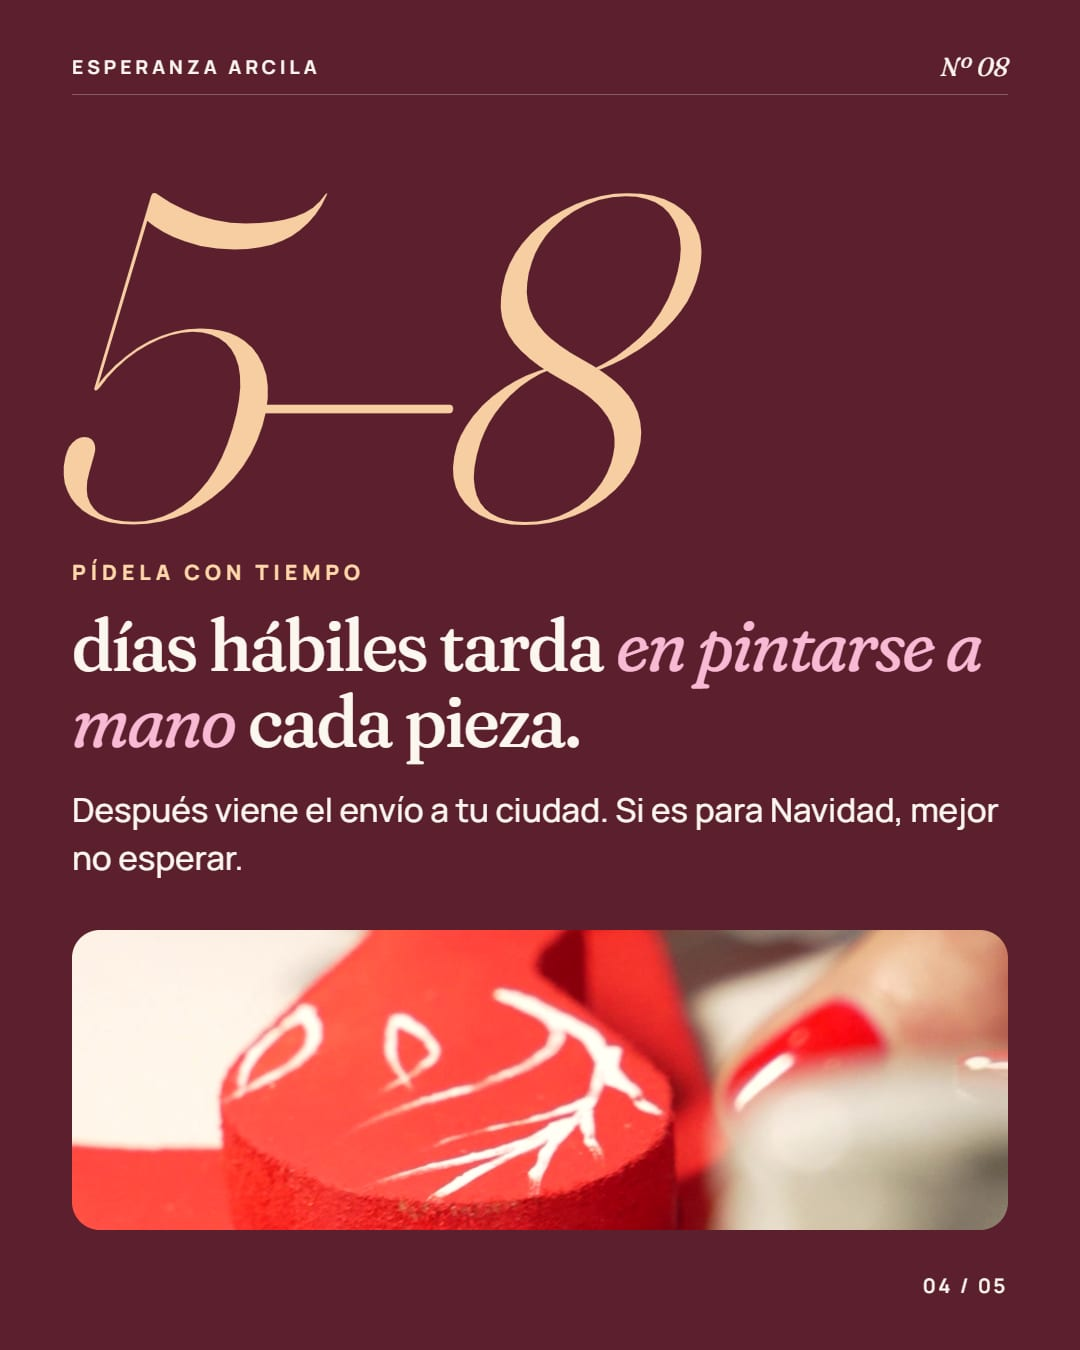
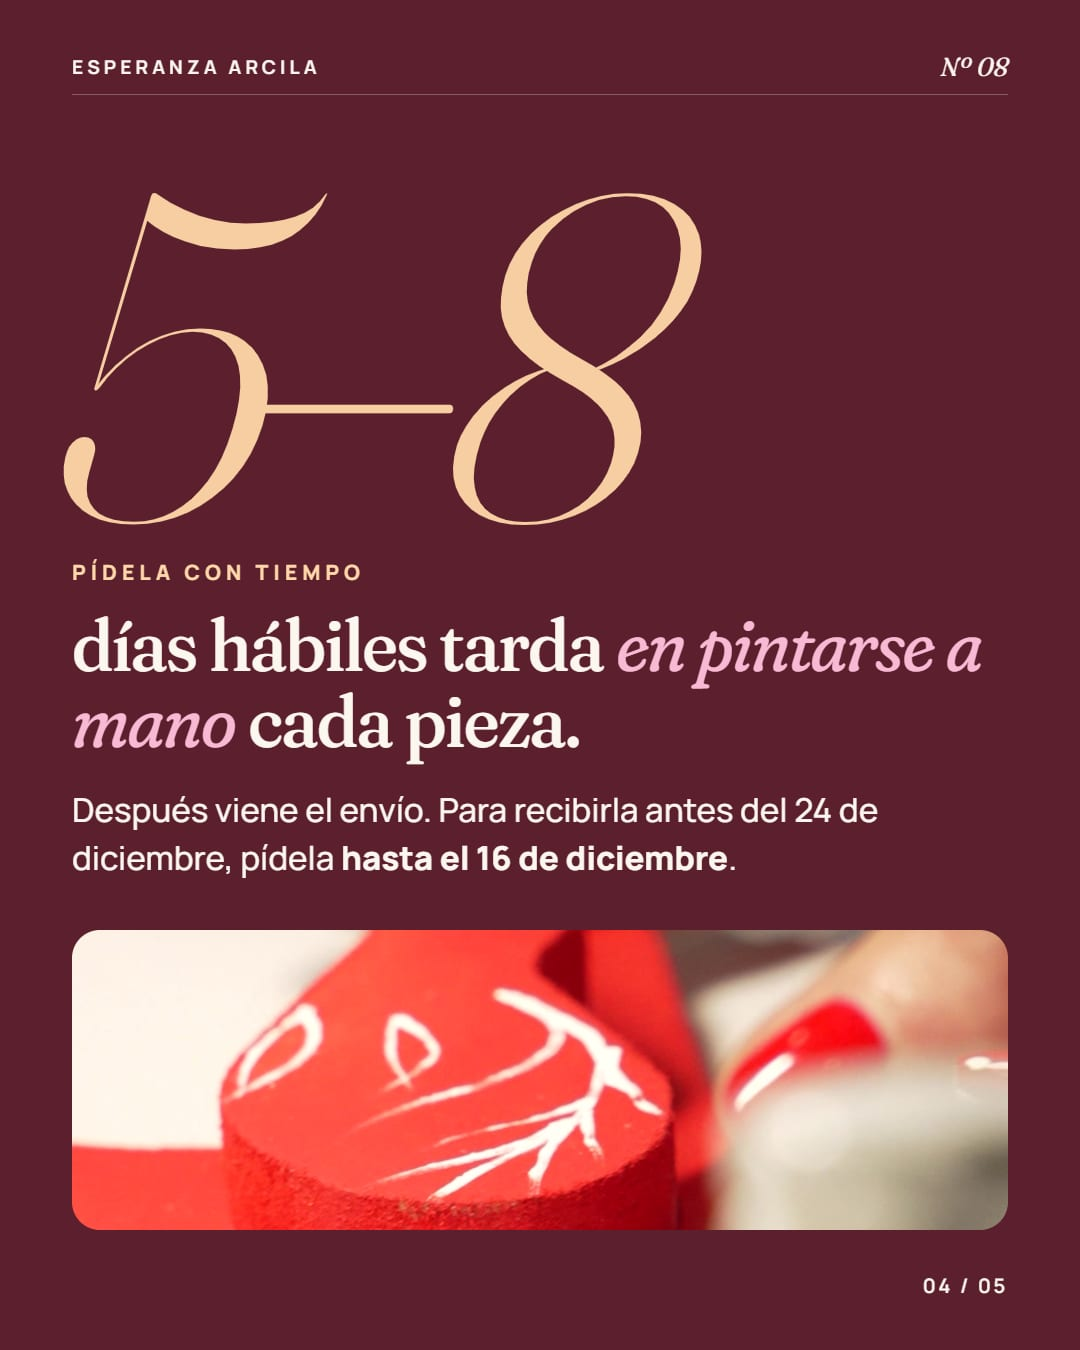
Parrilla: fecha límite 16 dic y personalización +$5.000

Changed region(s): [[0.0611, 0.5911, 0.9167, 0.6533]]

diff --git a/parrilla/index.html b/parrilla/index.html
@@ -146,7 +146,7 @@ Colección Reino de la Imaginación en esperanzaarcila.com
 
 De esos recuerdos nació su colección de Navidad: Santa Claus, árbol, media luna y renos, pintados a mano.
 
-Pide la tuya con tiempo: cada pieza tarda de 5 a 8 días hábiles en elaborarse, más el envío.
+Pide la tuya con tiempo: cada pieza tarda de 5 a 8 días hábiles en elaborarse, más el envío. Pedidos para Navidad: hasta el 16 de diciembre.
 esperanzaarcila.com
 
 #EsperanzaArcila #NavidadHechaAMano #DecoraciónNavideña #RegalosDeNavidad #HechoEnColombia #Cajicá</pre><button data-copy="07">Copiar texto</button></details>
@@ -164,12 +164,12 @@ Santa Claus · $150.000
 Media Luna · $127.500
 Renos rojo, verde y blanco · $150.000 c/u
 
-Cada pieza se pinta a mano en 5 a 8 días hábiles, más el envío. Si es para Navidad, mejor no esperar.
+Cada pieza se pinta a mano en 5 a 8 días hábiles, más el envío. Para recibirla antes del 24 de diciembre, pídela hasta el 16 de diciembre.
 
 Pídela en esperanzaarcila.com o por WhatsApp 315 152 6729.
 
 #EsperanzaArcila #NavidadHechaAMano #DecoraciónNavideña #RegalosDeNavidad #HechoEnColombia #Cajicá</pre><button data-copy="08">Copiar texto</button></details>
-  <p class="nota">Para revisar: Validar con Esperanza la fecha límite de pedidos para entregar antes del 24 de diciembre y agregarla al caption.</p>
+  
 </article>
 <article class="pz" id="n09">
   <header><span class="num">Nº 09</span><div><b>Carrusel · martes, 1 de diciembre</b><small>Capítulo III · Navidad en el alma · 19:00</small></div></header>
@@ -181,13 +181,13 @@ Pídela en esperanzaarcila.com o por WhatsApp 315 152 6729.
 · 80 hojas, 19 × 14 cm, portada plastificada.
 · Rayadas por ambas caras: $55.000.
 · Rayadas por un lado y blancas por el otro: $45.000.
-· Personalízala con un nombre, una dedicatoria o tu propia frase (hasta 25 caracteres).
+· Personalízala con un nombre, una dedicatoria o tu propia frase (hasta 25 caracteres), por $5.000 adicionales.
 
 Un regalo para quien escribe, dibuja o sueña.
 esperanzaarcila.com
 
 #EsperanzaArcila #NavidadHechaAMano #DecoraciónNavideña #RegalosDeNavidad #HechoEnColombia #Cajicá</pre><button data-copy="09">Copiar texto</button></details>
-  <p class="nota">Para revisar: Si la personalización tiene costo adicional, agregarlo cuando Esperanza lo confirme.</p>
+  
 </article>
 <article class="pz" id="n10">
   <header><span class="num">Nº 10</span><div><b>Carrusel · jueves, 3 de diciembre</b><small>Capítulo III · Navidad en el alma · 19:00</small></div></header>
@@ -241,5 +241,5 @@ esperanzaarcila.com
   
 </article>
 <footer>Hecho por We Rock para Esperanza Arcila · noviembre de 2026. Fotos y videos de la sesión de Esperanza Arcila.</footer></div>
-<script>const C={"10":"¿No sabes qué regalar? Regala algo que signifique algo. 🎁\n\nPara quien empieza de nuevo: la Mariposa.\nPara un hogar nuevo: el Elefante.\nPara quien amas: el Corazón.\nPara los niños que sueñan: el Unicornio.\n\nLlegan en empaque protegido y con certificado firmado por la artista.\nesperanzaarcila.com\n\n#EsperanzaArcila #NavidadHechaAMano #DecoraciónNavideña #RegalosDeNavidad #HechoEnColombia #Cajicá","11":"Antes: una habitación bonita.\nDespués: una habitación que cuenta una historia. 🧸\n\nEl Burro de retazos y el Cuadro Conejo, pintados a mano por Esperanza, cambian por completo un cuarto de niños.\n\nesperanzaarcila.com\n\n#EsperanzaArcila #ArteHechoAMano #HechoEnColombia #DecoraciónConSignificado #RegalosConSignificado #Cajicá #ArteColombiano","12":"Así llega tu pieza a casa. 📦\n\n1. Eliges en esperanzaarcila.com.\n2. Pagas seguro con Wompi: tarjeta, PSE, Nequi o Botón Bancolombia.\n3. Esperanza la prepara a mano en 5 a 8 días hábiles.\n4. Viaja con guía a cualquier ciudad de Colombia.\n5. Llega en empaque protegido y con certificado firmado.\n\n¿Dudas? WhatsApp 315 152 6729.\n\n#EsperanzaArcila #ArteHechoAMano #HechoEnColombia #DecoraciónConSignificado #RegalosConSignificado #Cajicá #ArteColombiano","01":"Cuidó a sus padres hasta su último suspiro. Y en ese camino, se olvidó de ella.\n\nHoy Esperanza volvió a soñar, y cada pieza que pinta lleva esa historia. 🎨\n\nConoce sus obras en esperanzaarcila.com\n\n#EsperanzaArcila #ArteHechoAMano #HechoEnColombia #DecoraciónConSignificado #RegalosConSignificado #Cajicá #ArteColombiano","02":"Esta es Esperanza Arcila. 🤍\n\nEmpezó a pintar en 2011. Estudió nutrición en la Javeriana, fue profesora de bordados, de muñecos y de diseño… y por cuidar a sus padres, dejó sus sueños en pausa.\n\nHoy, desde Cajicá, los retoma pieza por pieza: figuras de madera pintadas a mano, cada una con un significado.\n\nDesliza y conócela.\nesperanzaarcila.com · WhatsApp 315 152 6729\n\n#EsperanzaArcila #ArteHechoAMano #HechoEnColombia #DecoraciónConSignificado #RegalosConSignificado #Cajicá #ArteColombiano","03":"“No pinto cuadros. Pinto emociones.”\n\nAsí define Esperanza su trabajo. Su Caballo Energía nace del recuerdo del carrusel de la infancia: colores vibrantes, pintados uno a uno, con lo que lleva en el corazón.\n\nEncuéntralo en esperanzaarcila.com\n\n#EsperanzaArcila #ArteHechoAMano #HechoEnColombia #DecoraciónConSignificado #RegalosConSignificado #Cajicá #ArteColombiano","04":"¿Cuánto tarda una pieza? No tiene horas: tiene un proceso. ✍\n\n1. La imagina y la dibuja.\n2. Saca los moldes y el carpintero la corta en MDF.\n3. Elige los tonos.\n4. La pinta a mano, trazo a trazo.\n\nPor eso ninguna es igual a otra, y cada una llega con certificado firmado por la artista.\nesperanzaarcila.com\n\n#EsperanzaArcila #ArteHechoAMano #HechoEnColombia #DecoraciónConSignificado #RegalosConSignificado #Cajicá #ArteColombiano","05":"Cada pieza guarda un significado. 🕊\n\nEl colibrí: felicidad en las pequeñas cosas.\nEl delfín: la armonía entre la inteligencia y el corazón.\nEl león: liderar con sabiduría y valentía.\nLa mariposa: la transformación y los nuevos comienzos.\n\n¿Cuál habla de ti? Cuéntanos en los comentarios.\nesperanzaarcila.com\n\n#EsperanzaArcila #ArteHechoAMano #HechoEnColombia #DecoraciónConSignificado #RegalosConSignificado #Cajicá #ArteColombiano","06":"Mira de cerca. 🔍\n\nEsperanza imaginó a sus animalitos recorriendo la selva, camuflados entre hojitas, con pajaritos y mariquitas encima. Como un safari.\n\nAhí nacieron la vaca Lola y el burrito de retazos, que lleva una cometa con sus hilitos.\n\nColección Reino de la Imaginación en esperanzaarcila.com\n\n#EsperanzaArcila #ArteHechoAMano #HechoEnColombia #DecoraciónConSignificado #RegalosConSignificado #Cajicá #ArteColombiano","07":"Con su hermana adornaba la casa cada diciembre. 🎄\n\nDe esos recuerdos nació su colección de Navidad: Santa Claus, árbol, media luna y renos, pintados a mano.\n\nPide la tuya con tiempo: cada pieza tarda de 5 a 8 días hábiles en elaborarse, más el envío.\nesperanzaarcila.com\n\n#EsperanzaArcila #NavidadHechaAMano #DecoraciónNavideña #RegalosDeNavidad #HechoEnColombia #Cajicá","08":"Navidad en el alma. 🎄✨\n\nSanta Claus · $150.000\nÁrbol de Navidad · $127.500\nMedia Luna · $127.500\nRenos rojo, verde y blanco · $150.000 c/u\n\nCada pieza se pinta a mano en 5 a 8 días hábiles, más el envío. Si es para Navidad, mejor no esperar.\n\nPídela en esperanzaarcila.com o por WhatsApp 315 152 6729.\n\n#EsperanzaArcila #NavidadHechaAMano #DecoraciónNavideña #RegalosDeNavidad #HechoEnColombia #Cajicá","09":"Páginas de Ensueño: libretas con los diseños de Esperanza en la portada. 📖\n\n· 80 hojas, 19 × 14 cm, portada plastificada.\n· Rayadas por ambas caras: $55.000.\n· Rayadas por un lado y blancas por el otro: $45.000.\n· Personalízala con un nombre, una dedicatoria o tu propia frase (hasta 25 caracteres).\n\nUn regalo para quien escribe, dibuja o sueña.\nesperanzaarcila.com\n\n#EsperanzaArcila #NavidadHechaAMano #DecoraciónNavideña #RegalosDeNavidad #HechoEnColombia #Cajicá"};document.querySelectorAll('[data-copy]').forEach(b=>b.onclick=()=>{navigator.clipboard.writeText(C[b.dataset.copy]);b.textContent='Copiado ✓'});</script>
+<script>const C={"10":"¿No sabes qué regalar? Regala algo que signifique algo. 🎁\n\nPara quien empieza de nuevo: la Mariposa.\nPara un hogar nuevo: el Elefante.\nPara quien amas: el Corazón.\nPara los niños que sueñan: el Unicornio.\n\nLlegan en empaque protegido y con certificado firmado por la artista.\nesperanzaarcila.com\n\n#EsperanzaArcila #NavidadHechaAMano #DecoraciónNavideña #RegalosDeNavidad #HechoEnColombia #Cajicá","11":"Antes: una habitación bonita.\nDespués: una habitación que cuenta una historia. 🧸\n\nEl Burro de retazos y el Cuadro Conejo, pintados a mano por Esperanza, cambian por completo un cuarto de niños.\n\nesperanzaarcila.com\n\n#EsperanzaArcila #ArteHechoAMano #HechoEnColombia #DecoraciónConSignificado #RegalosConSignificado #Cajicá #ArteColombiano","12":"Así llega tu pieza a casa. 📦\n\n1. Eliges en esperanzaarcila.com.\n2. Pagas seguro con Wompi: tarjeta, PSE, Nequi o Botón Bancolombia.\n3. Esperanza la prepara a mano en 5 a 8 días hábiles.\n4. Viaja con guía a cualquier ciudad de Colombia.\n5. Llega en empaque protegido y con certificado firmado.\n\n¿Dudas? WhatsApp 315 152 6729.\n\n#EsperanzaArcila #ArteHechoAMano #HechoEnColombia #DecoraciónConSignificado #RegalosConSignificado #Cajicá #ArteColombiano","01":"Cuidó a sus padres hasta su último suspiro. Y en ese camino, se olvidó de ella.\n\nHoy Esperanza volvió a soñar, y cada pieza que pinta lleva esa historia. 🎨\n\nConoce sus obras en esperanzaarcila.com\n\n#EsperanzaArcila #ArteHechoAMano #HechoEnColombia #DecoraciónConSignificado #RegalosConSignificado #Cajicá #ArteColombiano","02":"Esta es Esperanza Arcila. 🤍\n\nEmpezó a pintar en 2011. Estudió nutrición en la Javeriana, fue profesora de bordados, de muñecos y de diseño… y por cuidar a sus padres, dejó sus sueños en pausa.\n\nHoy, desde Cajicá, los retoma pieza por pieza: figuras de madera pintadas a mano, cada una con un significado.\n\nDesliza y conócela.\nesperanzaarcila.com · WhatsApp 315 152 6729\n\n#EsperanzaArcila #ArteHechoAMano #HechoEnColombia #DecoraciónConSignificado #RegalosConSignificado #Cajicá #ArteColombiano","03":"“No pinto cuadros. Pinto emociones.”\n\nAsí define Esperanza su trabajo. Su Caballo Energía nace del recuerdo del carrusel de la infancia: colores vibrantes, pintados uno a uno, con lo que lleva en el corazón.\n\nEncuéntralo en esperanzaarcila.com\n\n#EsperanzaArcila #ArteHechoAMano #HechoEnColombia #DecoraciónConSignificado #RegalosConSignificado #Cajicá #ArteColombiano","04":"¿Cuánto tarda una pieza? No tiene horas: tiene un proceso. ✍\n\n1. La imagina y la dibuja.\n2. Saca los moldes y el carpintero la corta en MDF.\n3. Elige los tonos.\n4. La pinta a mano, trazo a trazo.\n\nPor eso ninguna es igual a otra, y cada una llega con certificado firmado por la artista.\nesperanzaarcila.com\n\n#EsperanzaArcila #ArteHechoAMano #HechoEnColombia #DecoraciónConSignificado #RegalosConSignificado #Cajicá #ArteColombiano","05":"Cada pieza guarda un significado. 🕊\n\nEl colibrí: felicidad en las pequeñas cosas.\nEl delfín: la armonía entre la inteligencia y el corazón.\nEl león: liderar con sabiduría y valentía.\nLa mariposa: la transformación y los nuevos comienzos.\n\n¿Cuál habla de ti? Cuéntanos en los comentarios.\nesperanzaarcila.com\n\n#EsperanzaArcila #ArteHechoAMano #HechoEnColombia #DecoraciónConSignificado #RegalosConSignificado #Cajicá #ArteColombiano","06":"Mira de cerca. 🔍\n\nEsperanza imaginó a sus animalitos recorriendo la selva, camuflados entre hojitas, con pajaritos y mariquitas encima. Como un safari.\n\nAhí nacieron la vaca Lola y el burrito de retazos, que lleva una cometa con sus hilitos.\n\nColección Reino de la Imaginación en esperanzaarcila.com\n\n#EsperanzaArcila #ArteHechoAMano #HechoEnColombia #DecoraciónConSignificado #RegalosConSignificado #Cajicá #ArteColombiano","07":"Con su hermana adornaba la casa cada diciembre. 🎄\n\nDe esos recuerdos nació su colección de Navidad: Santa Claus, árbol, media luna y renos, pintados a mano.\n\nPide la tuya con tiempo: cada pieza tarda de 5 a 8 días hábiles en elaborarse, más el envío. Pedidos para Navidad: hasta el 16 de diciembre.\nesperanzaarcila.com\n\n#EsperanzaArcila #NavidadHechaAMano #DecoraciónNavideña #RegalosDeNavidad #HechoEnColombia #Cajicá","08":"Navidad en el alma. 🎄✨\n\nSanta Claus · $150.000\nÁrbol de Navidad · $127.500\nMedia Luna · $127.500\nRenos rojo, verde y blanco · $150.000 c/u\n\nCada pieza se pinta a mano en 5 a 8 días hábiles, más el envío. Para recibirla antes del 24 de diciembre, pídela hasta el 16 de diciembre.\n\nPídela en esperanzaarcila.com o por WhatsApp 315 152 6729.\n\n#EsperanzaArcila #NavidadHechaAMano #DecoraciónNavideña #RegalosDeNavidad #HechoEnColombia #Cajicá","09":"Páginas de Ensueño: libretas con los diseños de Esperanza en la portada. 📖\n\n· 80 hojas, 19 × 14 cm, portada plastificada.\n· Rayadas por ambas caras: $55.000.\n· Rayadas por un lado y blancas por el otro: $45.000.\n· Personalízala con un nombre, una dedicatoria o tu propia frase (hasta 25 caracteres), por $5.000 adicionales.\n\nUn regalo para quien escribe, dibuja o sueña.\nesperanzaarcila.com\n\n#EsperanzaArcila #NavidadHechaAMano #DecoraciónNavideña #RegalosDeNavidad #HechoEnColombia #Cajicá"};document.querySelectorAll('[data-copy]').forEach(b=>b.onclick=()=>{navigator.clipboard.writeText(C[b.dataset.copy]);b.textContent='Copiado ✓'});</script>
 </body></html>
